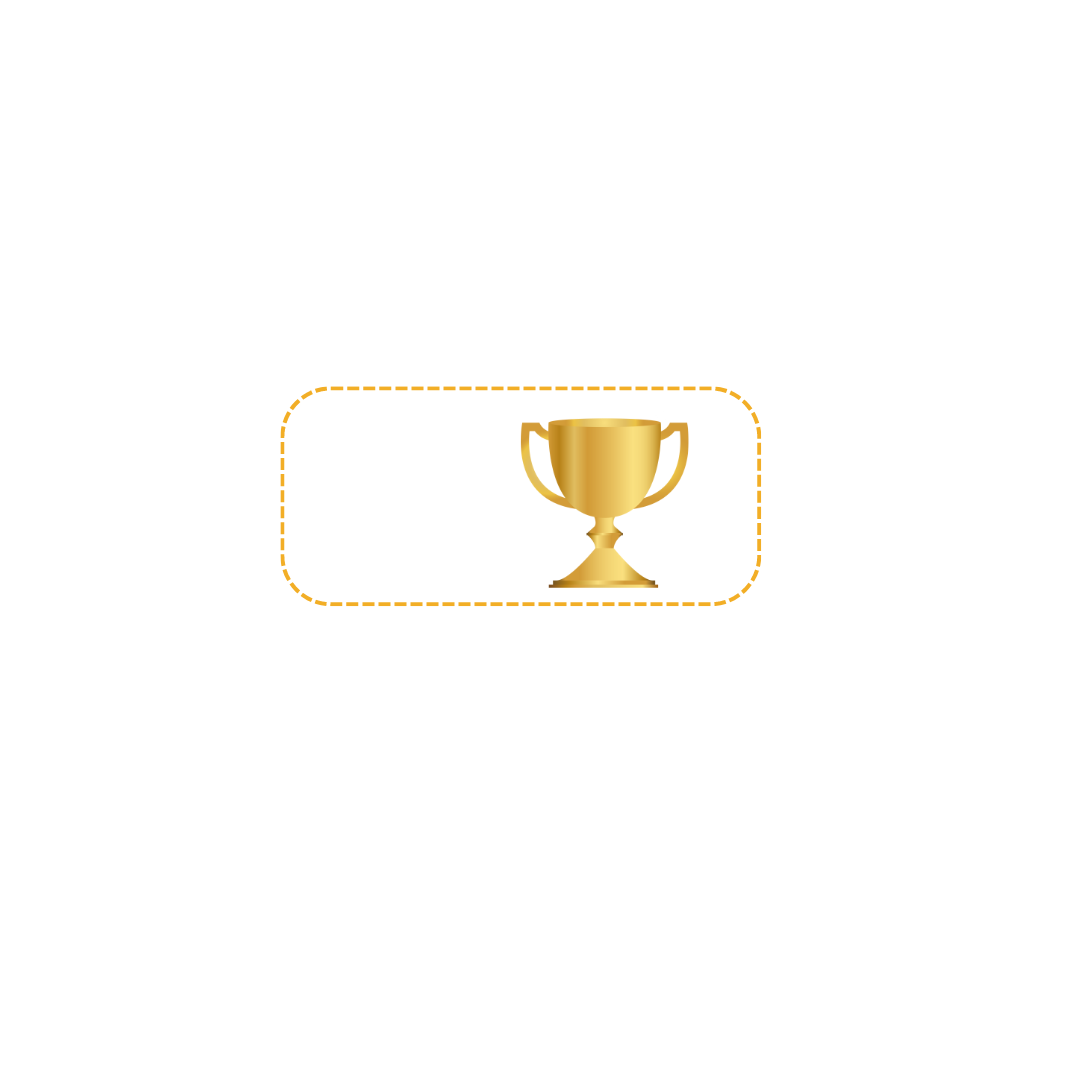
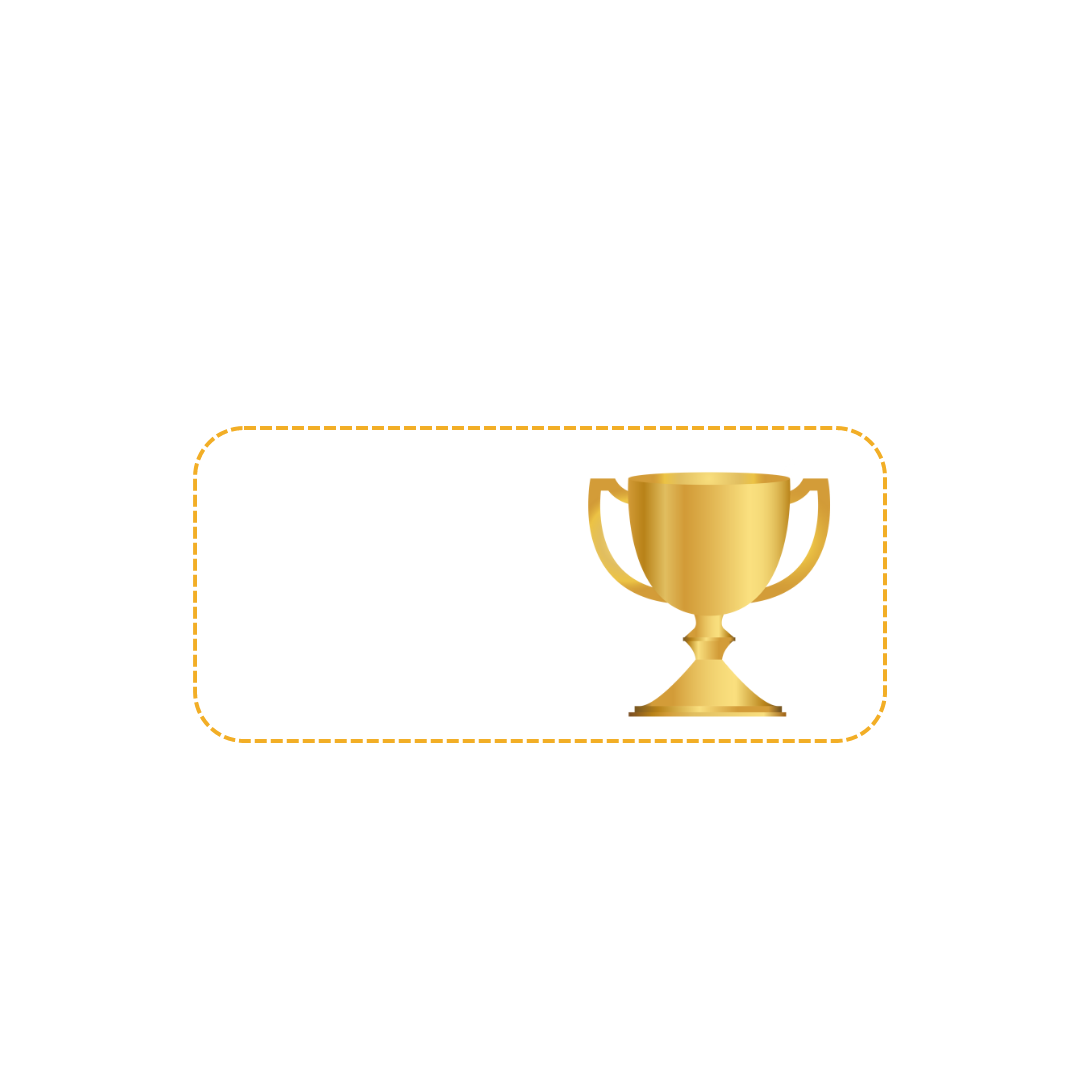
trophies and coins templates in place, but coins counter text is underneath its template

diff --git a/frontend/src/components/navigation/screens/trophyScreen.js b/frontend/src/components/navigation/screens/trophyScreen.js
@@ -6,6 +6,7 @@ import * as SecureStore from 'expo-secure-store';
 import {
   Image,
   StyleSheet,
+  ImageBackground,
   Text,
   View,
   TextInput,
@@ -14,10 +15,107 @@ import {
 
 const TrophyScreen = ({ navigation }) => {
   return (
-    <View>
-      <Text>Trophy</Text>
+    <View style={styles.page}>
+      <ImageBackground
+        source={require('../../../images/background.png')}
+        resizeMode="cover"
+        style={styles.background}
+      ></ImageBackground>
+      
+      <View style={styles.templatesContainer}>
+      <Image
+        source={require('../../../images/trophyandcoin-template.png')}
+        style={styles.trophyAndCoinTemplate}
+      ></Image>
+      </View>
+
+      <Text style={styles.header}>Welcome, _username_!</Text>
+      <Text style={styles.currentTreasures}>Your current treasures are:</Text>
+      <Text style={styles.rankings}>Rankings</Text>
+      <Text style={styles.pointsTrophies}>? </Text>
+      <Text style={styles.pointsCoins}>? </Text>
     </View>
   );
 };
+
+const styles = StyleSheet.create({
+  page: {
+    flex: 1,
+  },
+  background: {
+    flex: 1,
+    zIndex: 0,
+    resizeMode: 'cover',
+    position: 'absolute',
+    width: '100%',
+    height: '100%',
+  },
+  // All text styles
+  header: {
+    fontSize: 18,
+    textAlign: 'center',
+    justifyContent: 'space-evenly',
+    color: '#204376',
+    fontWeight: 'bold',
+    marginTop: 40,
+    marginVertical: 10,
+    marginHorizontal: 50,
+  },
+  currentTreasures: {
+    fontSize: 18,
+    textAlign: 'center',
+    justifyContent: 'space-evenly',
+    color: '#204376',
+    fontWeight: 'bold',
+    marginVertical: 10,
+  },
+  rankings: {
+    fontSize: 22,
+    textAlign: 'center',
+    justifyContent: 'space-evenly',
+    color: '#204376',
+    fontWeight: 'bold',
+    marginVertical: 150,
+  },
+  pointsTrophies: {
+    fontSize: 40,
+    position: 'absolute',
+    justifyContent: 'space-evenly',
+    textAlign: 'center',
+    color: '#204376',
+    fontWeight: 'bold',
+    marginVertical: 155,
+    marginHorizontal: 55,
+  },
+  pointsCoins: {
+    fontSize: 40,
+    position: 'absolute',
+    justifyContent: 'space-evenly',
+    zIndex: 50, 
+    color: '#204376',
+    fontWeight: 'bold',
+    marginVertical: 155,
+    marginHorizontal: 190,
+    
+  },
+  // Images
+  templatesContainer: {
+    resizeMode: 'contain',
+    position: 'absolute',
+    flexDirection: 'row',
+    justifyContent: 'center',
+    marginTop: 50,
+    marginBottom: 10,
+    marginLeft:10,
+    marginRight:10,
+  },
+  trophyAndCoinTemplate: {
+    flex: 1,
+    zIndex: 1,
+    flexGrow: 1,
+    padding: 130,
+    height: 50,
+  },
+});
 
 export default TrophyScreen;
